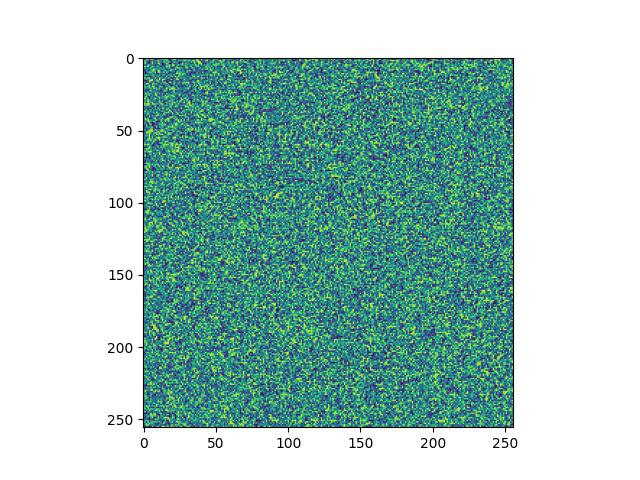
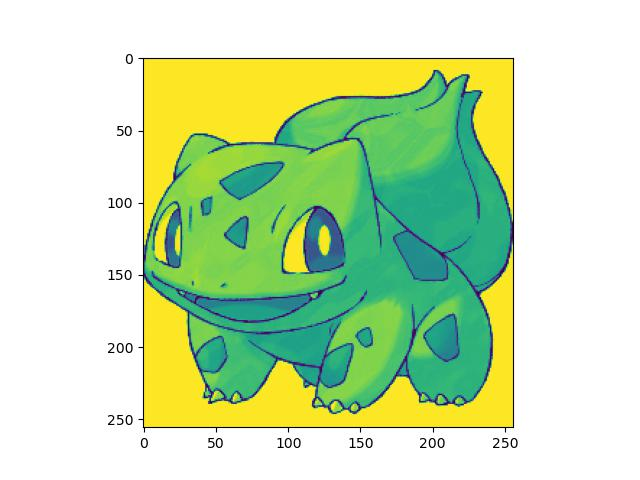
working training

diff --git a/Autoencoder.py b/Autoencoder.py
@@ -30,7 +30,7 @@ ims = ims[:,1,:,:]
 ims = ims/255
 
 plt.imshow(transforms.ToPILImage()(ims[0]))
-plt.savefig("/Users/alecgironda/Desktop/W23/CSCI1051/Pokemon-Variational-Autoencoder/original.jpg")
+plt.savefig("./original.jpg")
 
 import torch.nn as nn
 
@@ -106,7 +106,7 @@ loss =  loss_fn # Step 2: loss
 optimizer = torch.optim.Adam(model.parameters(), lr=.001) # Step 3: training method
 
 train_loss_history = []
-for epoch in range(1):
+for epoch in range(100):
     train_loss = 0.0
     optimizer.zero_grad()
     predicted_output = model(ims[0])
@@ -123,4 +123,4 @@ out = model(ims[0])
 out = torch.reshape(out,(256,256))
 
 plt.imshow(transforms.ToPILImage()(out))
-plt.savefig("/Users/alecgironda/Desktop/W23/CSCI1051/Pokemon-Variational-Autoencoder/out.jpg")
+plt.savefig("./out.jpg")
